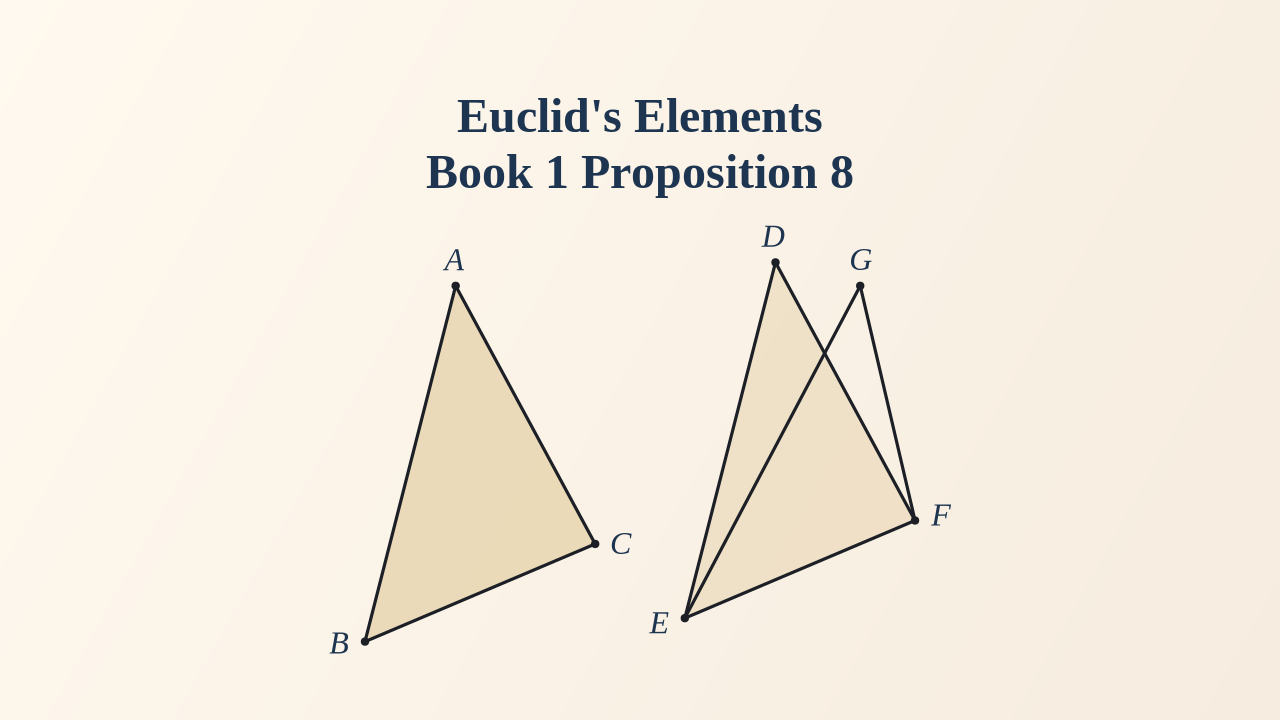
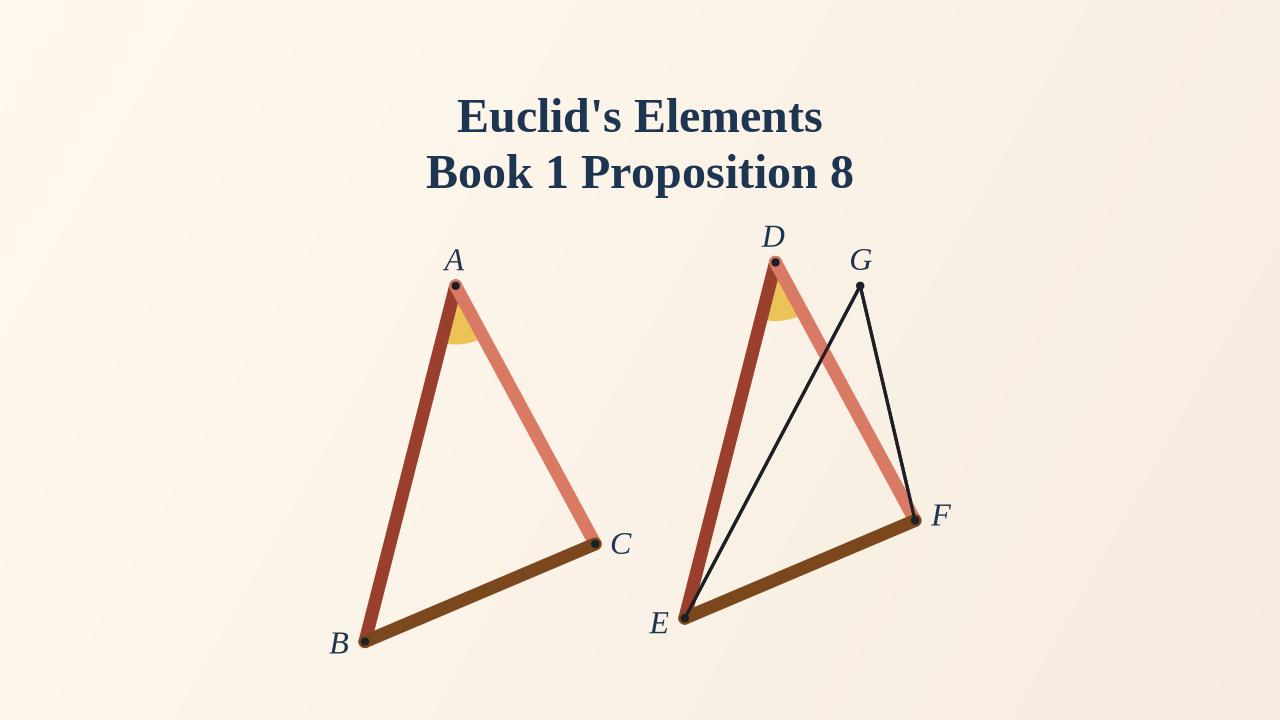
Mark the equal sides and encompassed angles on the I.8 thumbnail. (#64)
Proposition 8 names three equal side pairs and the angles they encompass, not the triangles. AB and DE take the brick; AC and DF take the rose; BC and EF take the bronze. BAC and EDF take one yellow pie. G, EG, and GF stay the reductio on the plate.

Changed region(s): [[0.5312, 0.3667, 0.7188, 0.8861], [0.2812, 0.3972, 0.4688, 0.9167]]

diff --git a/scripts/youtube_book1_thumbs.py b/scripts/youtube_book1_thumbs.py
@@ -37,8 +37,15 @@ another point on the same side. The card keeps the plate — AB is the
 given line, CD is joined for the reductio — and marks the two equalities.
 AC and AD, the pair from A, take the brick. CB and DB, the pair to B,
 take the yellow. A wash of ACB and ADB would light the triangles, which
-the proposition does not claim. Labels stay navy, the color every other card
-uses.
+the proposition does not claim. I.8 is the side-angle conclusion: two sides
+equal to two sides, respectively, the base equal to the base, and so the
+angles encompassed by those straight-lines equal. The card keeps the plate
+— G, EG and GF are the miss, the reductio, not the subject — and marks
+the three equalities and that angle. AB and DE take the brick. AC and DF
+take the rose. BC and EF, the bases, take a bronze. ∠BAC and ∠EDF take
+one yellow pie. A wash of ABC and DEF would light the triangles, which
+the proposition does not claim. Labels stay navy, the color every other
+card uses.
 """
 
 from __future__ import annotations
@@ -69,6 +76,9 @@ WASH = (232, 214, 176)
 # brick left dark, fights the cream.
 PIE = (234, 188, 64)
 PIE_ALT = (216, 122, 100)
+# Third line equality, when yellow is already the angle and rose is the
+# second pair. Dark enough to read on cream; warm, so it sits with the plate.
+BRONZE = (122, 72, 28)
 LETTER_R = 0.82  # plate::LETTER_R, em of the letter type
 
 # Subject regions, vertex order around the boundary. Two regions: warm, then gold,
@@ -76,7 +86,6 @@ LETTER_R = 0.82  # plate::LETTER_R, em of the letter type
 WASHES: dict[int, list[tuple[str, ...]]] = {
     1: [("A", "B", "C")],
     4: [("A", "B", "C"), ("D", "E", "F")],
-    8: [("A", "B", "C"), ("D", "E", "F")],
     16: [("A", "B", "C")],
     17: [("A", "B", "C")],
     18: [("A", "B", "C")],
@@ -118,6 +127,18 @@ LINES: dict[int, list[tuple[str, str]]] = {
     6: [("A", "B"), ("A", "C")],
     # AC = AD, the pair from A. CB = DB is the other equality (LINE_ALT).
     7: [("A", "C"), ("A", "D")],
+    # AB = DE, the first of the two sides. AC = DF and the bases are
+    # LINE_EXTRA: three equalities, three hues.
+    8: [("A", "B"), ("D", "E")],
+}
+
+# Further line equalities, each a hue that is not the angle yellow.
+# I.8: AC = DF, then the bases BC = EF. The miss (EG, GF) is not here.
+LINE_EXTRA: dict[int, list[tuple[tuple[int, int, int], tuple[tuple[str, str], ...]]]] = {
+    8: [
+        (PIE_ALT, (("A", "C"), ("D", "F"))),
+        (BRONZE, (("B", "C"), ("E", "F"))),
+    ],
 }
 
 # A second equality, a second hue. Same width as the brick. Yellow is the
@@ -136,6 +157,8 @@ ANGLES: dict[int, list[list[tuple[str, str, str]]]] = {
     ],
     # ∠ABC = ∠ACB. One set. The sides under them are lines, not a second pie.
     6: [[("A", "B", "C"), ("A", "C", "B")]],
+    # ∠BAC = ∠EDF, the angles the equal sides encompass. One set.
+    8: [[("B", "A", "C"), ("E", "D", "F")]],
     # ∠D = ∠FEC. One set, so one mark. Arm ends of D are not lettered.
     42: [[("Dleft", "D", "Dright"), ("F", "E", "C")]],
 }
@@ -148,6 +171,8 @@ ANGLE_MARK: dict[int, list[tuple[tuple[int, int, int], float]]] = {
     # Same absolute reach as the I.5 base pies, so the pair reads at
     # thumbnail size. Short of D on AB, and short of the opposite side.
     6: [(PIE, 0.32)],
+    # Short of the rose sides, so the pie is the angle and not another stroke.
+    8: [(PIE, 0.20)],
     # Rose, not yellow: the pie sits on the gold parallelogram, and yellow
     # reads as more of that wash. One plate radius for the pair — a fraction
     # of each arm would draw the longer angle larger. Short of the letter
@@ -898,10 +923,14 @@ def render(n: int, scene: Scene, out: Path) -> None:
     cr.new_path()
     lit_segs = LINES.get(n, [])
     alt_segs = LINE_ALT.get(n, [])
-    for a, b in lit_segs + alt_segs:
+    extra = LINE_EXTRA.get(n, [])
+    extra_segs = [seg for _, segs in extra for seg in segs]
+    for a, b in lit_segs + alt_segs + extra_segs:
         if a not in scene.pts or b not in scene.pts:
             raise SystemExit(f"I.{n}: line {a}{b} missing")
-    lit_ink = {(a, b) for a, b in lit_segs + alt_segs} | {(b, a) for a, b in lit_segs + alt_segs}
+    lit_ink = {(a, b) for a, b in lit_segs + alt_segs + extra_segs} | {
+        (b, a) for a, b in lit_segs + alt_segs + extra_segs
+    }
     # Construction stays the same ink as I.1. Only the named lines are lit.
     # A named side may be chained through a construction point (D on AB).
     # The highlight is the whole chord, drawn over the pieces, so the plate's
@@ -948,6 +977,22 @@ def render(n: int, scene: Scene, out: Path) -> None:
 
     stroke_lines(lit_segs, BRICK)
     stroke_lines(alt_segs, PIE)
+    for color, segs in extra:
+        stroke_lines(segs, color)
+
+    # A miss can cross a named side (EG across DF on I.8). The highlight is
+    # drawn over the plate, so the unlit strokes go back on top and the
+    # crossing stays. Other cards have no crossing to restore.
+    if n == 8:
+        cr.set_source_rgb(*rgb(INK))
+        cr.set_line_width(3.2)
+        cr.set_line_cap(cairo.LINE_CAP_ROUND)
+        for a, b in scene.segs:
+            if (a, b) in lit_ink:
+                continue
+            cr.move_to(*pt(a))
+            cr.line_to(*pt(b))
+            cr.stroke()
 
     cr.new_path()
     for p in scene.dot_pts:
